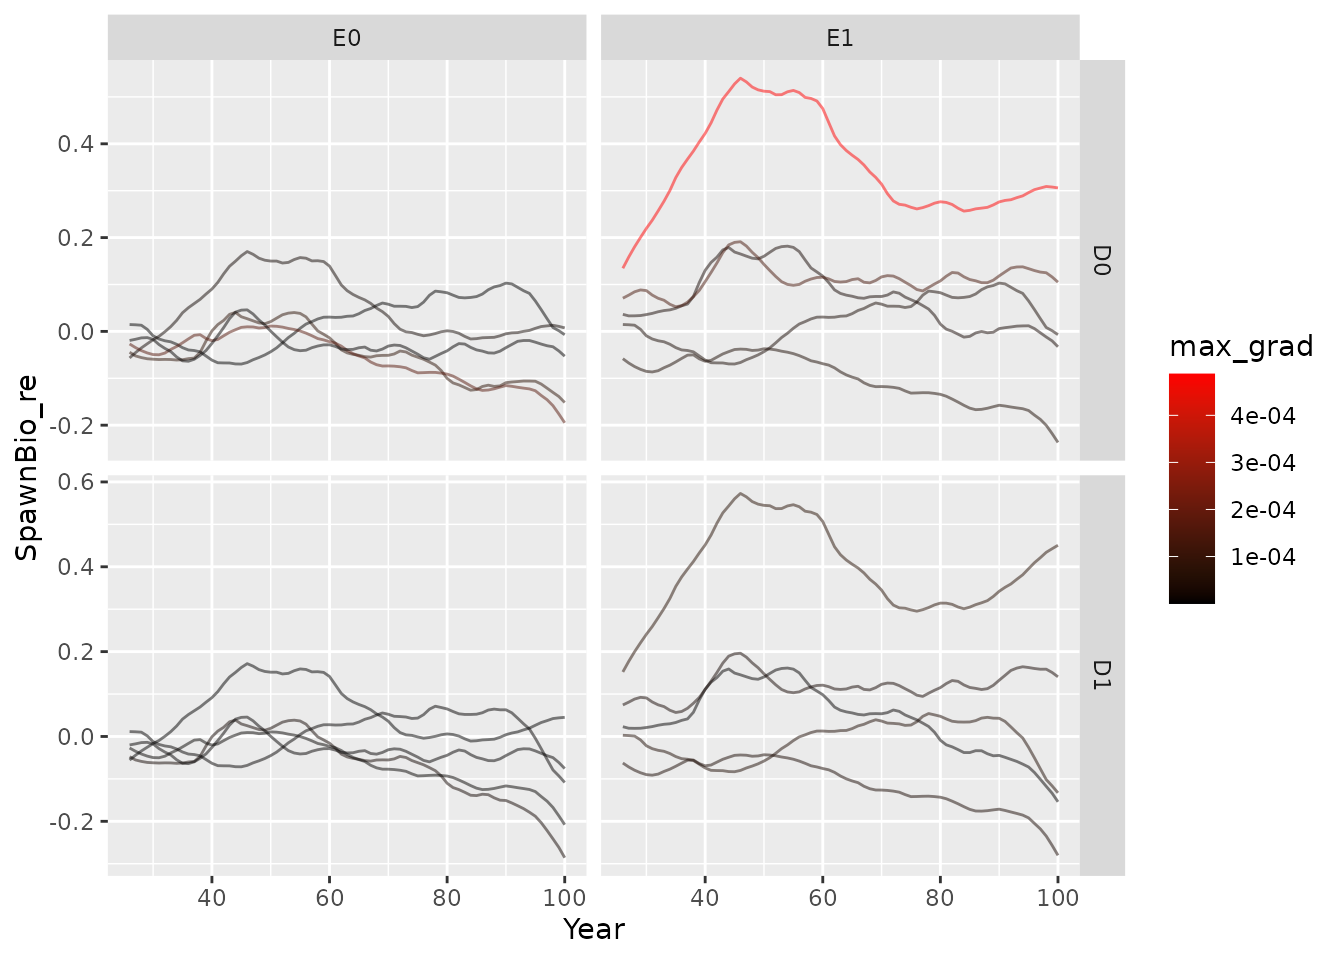
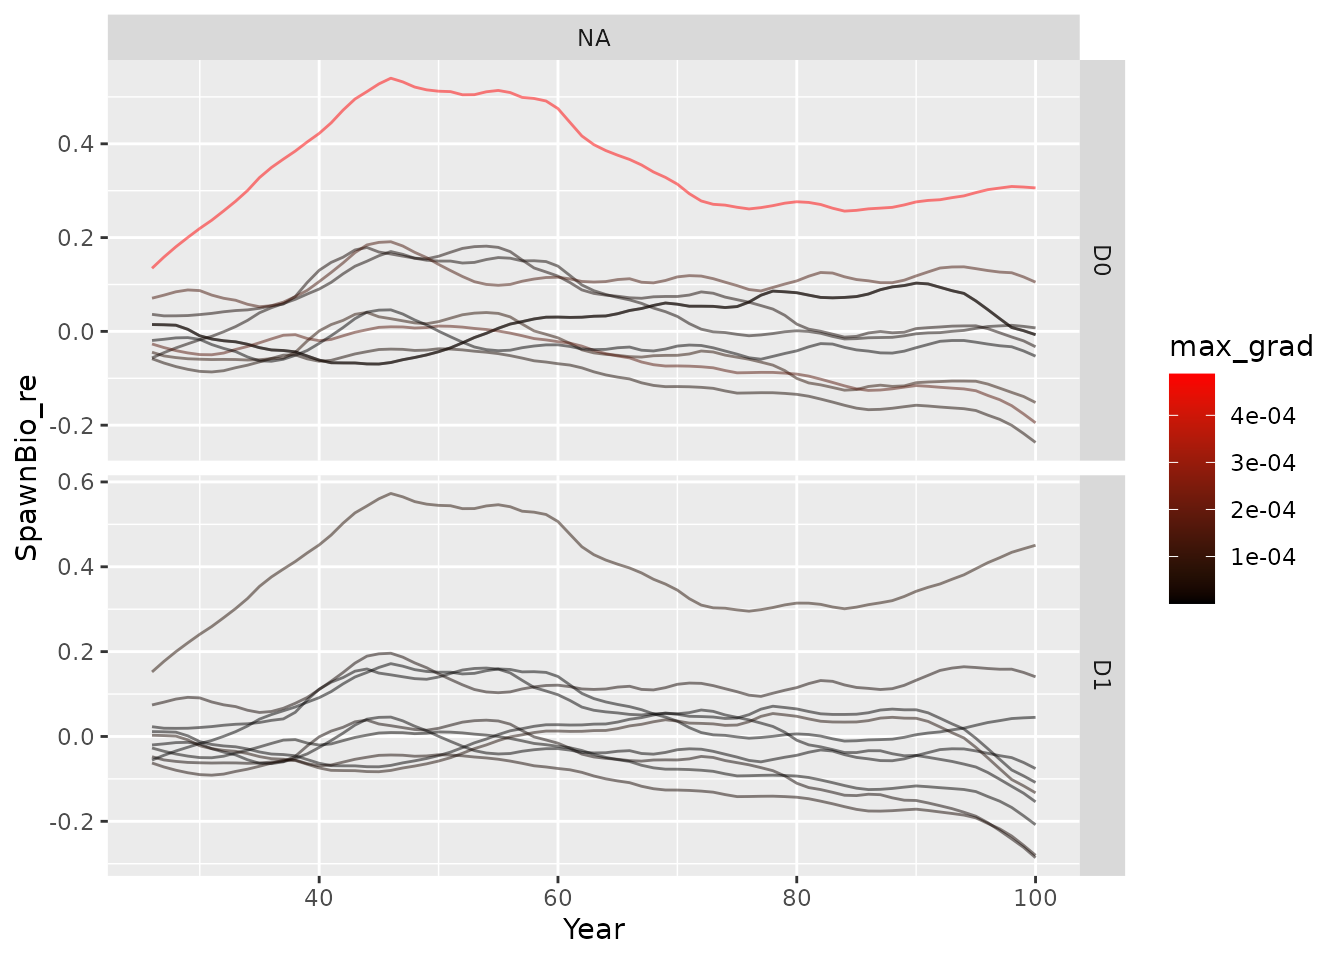
Built site for ss3sim: 1.20.0@24ee728

diff --git a/articles/introduction.html b/articles/introduction.html
@@ -705,20 +705,26 @@ version of the output.</p>
 <p>The gradient information is in the scalar file. Merging the scalar
 and the time series can help add details to figures.</p>
 <div class="sourceCode" id="cb22"><pre class="downlit sourceCode r">
-<code class="sourceCode R"><span><span class="va">ts_dat</span> <span class="op">&lt;-</span> <span class="fu"><a href="https://rdrr.io/r/base/merge.html" class="external-link">merge</a></span><span class="op">(</span></span>
-<span>  x <span class="op">=</span> <span class="va">ts_dat</span>,</span>
-<span>  y <span class="op">=</span> <span class="va">scalar_dat</span><span class="op">[</span>, <span class="fu"><a href="https://rdrr.io/r/base/c.html" class="external-link">c</a></span><span class="op">(</span><span class="st">"scenario"</span>, <span class="st">"iteration"</span>, <span class="st">"max_grad"</span><span class="op">)</span><span class="op">]</span></span>
+<code class="sourceCode R"><span><span class="va">scalar_dat</span><span class="op">[</span>, <span class="st">"D"</span><span class="op">]</span> <span class="op">&lt;-</span> <span class="fu"><a href="https://rdrr.io/r/base/grep.html" class="external-link">gsub</a></span><span class="op">(</span></span>
+<span>  pattern <span class="op">=</span> <span class="st">"D([0-9]+)-.+"</span>,</span>
+<span>  replacement <span class="op">=</span> <span class="st">"D\\1"</span>,</span>
+<span>  <span class="va">scalar_dat</span><span class="op">[</span>, <span class="st">"scenario"</span><span class="op">]</span></span>
+<span><span class="op">)</span></span>
+<span><span class="va">scalar_dat</span><span class="op">[</span>, <span class="st">"E"</span><span class="op">]</span> <span class="op">&lt;-</span> <span class="fu"><a href="https://rdrr.io/r/base/ifelse.html" class="external-link">ifelse</a></span><span class="op">(</span></span>
+<span>  test <span class="op">=</span> <span class="va">scalar_dat</span><span class="op">$</span><span class="va">NatM_uniform_Fem_GP_1_em</span> <span class="op">==</span> <span class="fl">0.2</span>,</span>
+<span>  <span class="st">"fix M"</span>,</span>
+<span>  <span class="st">"estimate M"</span></span>
+<span><span class="op">)</span></span>
+<span><span class="va">ts_dat</span> <span class="op">&lt;-</span> <span class="fu"><a href="https://rdrr.io/r/base/merge.html" class="external-link">merge</a></span><span class="op">(</span></span>
+<span>  x <span class="op">=</span> <span class="fu">dplyr</span><span class="fu">::</span><span class="fu"><a href="https://dplyr.tidyverse.org/reference/select.html" class="external-link">select</a></span><span class="op">(</span><span class="va">ts_dat</span>, <span class="op">-</span><span class="va">E</span><span class="op">)</span>,</span>
+<span>  y <span class="op">=</span> <span class="va">scalar_dat</span><span class="op">[</span>, <span class="fu"><a href="https://rdrr.io/r/base/c.html" class="external-link">c</a></span><span class="op">(</span><span class="st">"scenario"</span>, <span class="st">"iteration"</span>, <span class="st">"max_grad"</span>, <span class="st">"D"</span>, <span class="st">"E"</span><span class="op">)</span><span class="op">]</span></span>
 <span><span class="op">)</span></span></code></pre></div>
 </div>
 <div class="section level4">
 <h4 id="separate-the-deterministic-from-the-stochastic-runs">Separate the deterministic from the stochastic runs<a class="anchor" aria-label="anchor" href="#separate-the-deterministic-from-the-stochastic-runs"></a>
 </h4>
 <div class="sourceCode" id="cb23"><pre class="downlit sourceCode r">
-<code class="sourceCode R"><span><span class="va">scalar_dat_det</span> <span class="op">&lt;-</span> <span class="va">scalar_dat</span><span class="op">[</span><span class="va">scalar_dat</span><span class="op">$</span><span class="va">E</span> <span class="op"><a href="https://rdrr.io/r/base/match.html" class="external-link">%in%</a></span> <span class="fu"><a href="https://rdrr.io/r/base/c.html" class="external-link">c</a></span><span class="op">(</span><span class="st">"E100"</span>, <span class="st">"E101"</span><span class="op">)</span>, <span class="op">]</span></span>
-<span><span class="va">scalar_dat_sto</span> <span class="op">&lt;-</span> <span class="va">scalar_dat</span><span class="op">[</span><span class="va">scalar_dat</span><span class="op">$</span><span class="va">E</span> <span class="op"><a href="https://rdrr.io/r/base/match.html" class="external-link">%in%</a></span> <span class="fu"><a href="https://rdrr.io/r/base/c.html" class="external-link">c</a></span><span class="op">(</span><span class="st">"E0"</span>, <span class="st">"E1"</span><span class="op">)</span>, <span class="op">]</span></span>
-<span><span class="va">ts_dat_det</span> <span class="op">&lt;-</span> <span class="va">ts_dat</span><span class="op">[</span><span class="va">ts_dat</span><span class="op">$</span><span class="va">E</span> <span class="op"><a href="https://rdrr.io/r/base/match.html" class="external-link">%in%</a></span> <span class="fu"><a href="https://rdrr.io/r/base/c.html" class="external-link">c</a></span><span class="op">(</span><span class="st">"E100"</span>, <span class="st">"E101"</span><span class="op">)</span>, <span class="op">]</span></span>
-<span><span class="va">ts_dat_sto</span> <span class="op">&lt;-</span> <span class="va">ts_dat</span><span class="op">[</span><span class="va">ts_dat</span><span class="op">$</span><span class="va">E</span> <span class="op"><a href="https://rdrr.io/r/base/match.html" class="external-link">%in%</a></span> <span class="fu"><a href="https://rdrr.io/r/base/c.html" class="external-link">c</a></span><span class="op">(</span><span class="st">"E0"</span>, <span class="st">"E1"</span><span class="op">)</span>, <span class="op">]</span></span>
-<span></span>
+<code class="sourceCode R"><span><span class="va">ts_dat_sto</span> <span class="op">&lt;-</span> <span class="va">ts_dat</span><span class="op">[</span><span class="fu"><a href="https://rdrr.io/r/base/grep.html" class="external-link">grepl</a></span><span class="op">(</span><span class="st">"E[0-1]-"</span>, <span class="va">ts_dat</span><span class="op">[</span>, <span class="st">"scenario"</span><span class="op">]</span><span class="op">)</span>, <span class="op">]</span></span>
 <span><span class="va">scalar_dat_long</span> <span class="op">&lt;-</span> <span class="va">scalar_dat</span></span>
 <span><span class="fu"><a href="https://rdrr.io/r/base/colnames.html" class="external-link">colnames</a></span><span class="op">(</span><span class="va">scalar_dat_long</span><span class="op">)</span> <span class="op">&lt;-</span> <span class="fu"><a href="https://rdrr.io/r/base/grep.html" class="external-link">gsub</a></span><span class="op">(</span></span>
 <span>  pattern <span class="op">=</span> <span class="st">"(.+)_re"</span>,</span>
@@ -742,10 +748,10 @@ and the time series can help add details to figures.</p>
 <code class="sourceCode R"><span><span class="va">p</span> <span class="op">&lt;-</span> <span class="fu"><a href="../reference/plot_boxplot.html">plot_boxplot</a></span><span class="op">(</span></span>
 <span>  <span class="va">scalar_dat_long</span><span class="op">[</span></span>
 <span>    <span class="va">scalar_dat_long</span><span class="op">$</span><span class="va">parameter</span> <span class="op"><a href="https://rdrr.io/r/base/match.html" class="external-link">%in%</a></span> <span class="fu"><a href="https://rdrr.io/r/base/c.html" class="external-link">c</a></span><span class="op">(</span><span class="st">"depletion"</span>, <span class="st">"SSB_MSY"</span><span class="op">)</span> <span class="op">&amp;</span></span>
-<span>      <span class="va">scalar_dat_long</span><span class="op">$</span><span class="va">E</span> <span class="op"><a href="https://rdrr.io/r/base/match.html" class="external-link">%in%</a></span> <span class="fu"><a href="https://rdrr.io/r/base/c.html" class="external-link">c</a></span><span class="op">(</span><span class="st">"E100"</span>, <span class="st">"E101"</span><span class="op">)</span>,</span>
+<span>    <span class="fu"><a href="https://rdrr.io/r/base/grep.html" class="external-link">grepl</a></span><span class="op">(</span><span class="st">"E10[0-1]"</span>, <span class="va">scalar_dat_long</span><span class="op">[</span>, <span class="st">"scenario"</span><span class="op">]</span><span class="op">)</span>,</span>
 <span>  <span class="op">]</span>,</span>
-<span>  x <span class="op">=</span> <span class="st">"D"</span>, y <span class="op">=</span> <span class="st">"RE"</span>, re <span class="op">=</span> <span class="cn">FALSE</span>,</span>
-<span>  vert <span class="op">=</span> <span class="st">"E"</span>, horiz <span class="op">=</span> <span class="st">"parameter"</span>, print <span class="op">=</span> <span class="cn">FALSE</span></span>
+<span>  x <span class="op">=</span> <span class="st">"E"</span>, y <span class="op">=</span> <span class="st">"RE"</span>, re <span class="op">=</span> <span class="cn">FALSE</span>,</span>
+<span>  horiz <span class="op">=</span> <span class="st">"parameter"</span>, print <span class="op">=</span> <span class="cn">FALSE</span></span>
 <span><span class="op">)</span></span>
 <span><span class="fu"><a href="https://rdrr.io/r/base/print.html" class="external-link">print</a></span><span class="op">(</span><span class="va">p</span><span class="op">)</span></span></code></pre></div>
 <div class="figure">
@@ -775,21 +781,10 @@ Time series of relative error in spawning stock biomass.
 </p>
 </div>
 <div class="sourceCode" id="cb27"><pre class="downlit sourceCode r">
-<code class="sourceCode R"><span><span class="va">p</span> <span class="op">&lt;-</span> <span class="fu"><a href="../reference/plot_lines.html">plot_lines</a></span><span class="op">(</span><span class="va">ts_dat_sto</span>,</span>
-<span>  y <span class="op">=</span> <span class="st">"SpawnBio_re"</span>,</span>
-<span>  vert <span class="op">=</span> <span class="st">"E"</span>, horiz <span class="op">=</span> <span class="st">"D"</span>, print <span class="op">=</span> <span class="cn">FALSE</span>, col <span class="op">=</span> <span class="st">"max_grad"</span></span>
-<span><span class="op">)</span></span>
-<span><span class="fu"><a href="https://rdrr.io/r/base/print.html" class="external-link">print</a></span><span class="op">(</span><span class="va">p</span><span class="op">)</span></span></code></pre></div>
-<div class="figure">
-<img src="introduction_files/figure-html/ssb-ts-plots-1.png" alt="Spawning stock biomass time series." width="672"><p class="caption">
-Spawning stock biomass time series.
-</p>
-</div>
-<div class="sourceCode" id="cb28"><pre class="downlit sourceCode r">
 <code class="sourceCode R"><span><span class="va">p</span> <span class="op">&lt;-</span> <span class="fu"><a href="../reference/plot_boxplot.html">plot_boxplot</a></span><span class="op">(</span></span>
 <span>  <span class="va">scalar_dat_long</span><span class="op">[</span></span>
 <span>    <span class="va">scalar_dat_long</span><span class="op">$</span><span class="va">parameter</span> <span class="op"><a href="https://rdrr.io/r/base/match.html" class="external-link">%in%</a></span> <span class="fu"><a href="https://rdrr.io/r/base/c.html" class="external-link">c</a></span><span class="op">(</span><span class="st">"depletion"</span>, <span class="st">"SSB_MSY"</span><span class="op">)</span> <span class="op">&amp;</span></span>
-<span>      <span class="va">scalar_dat_long</span><span class="op">$</span><span class="va">E</span> <span class="op"><a href="https://rdrr.io/r/base/match.html" class="external-link">%in%</a></span> <span class="fu"><a href="https://rdrr.io/r/base/c.html" class="external-link">c</a></span><span class="op">(</span><span class="st">"E0"</span>, <span class="st">"E1"</span><span class="op">)</span>,</span>
+<span>    <span class="fu"><a href="https://rdrr.io/r/base/grep.html" class="external-link">grepl</a></span><span class="op">(</span><span class="st">"E[0-1]-"</span>, <span class="va">scalar_dat_long</span><span class="op">$</span><span class="va">scenario</span><span class="op">)</span>,</span>
 <span>  <span class="op">]</span>,</span>
 <span>  x <span class="op">=</span> <span class="st">"D"</span>, y <span class="op">=</span> <span class="st">"RE"</span>, re <span class="op">=</span> <span class="cn">FALSE</span>,</span>
 <span>  vert <span class="op">=</span> <span class="st">"E"</span>, horiz <span class="op">=</span> <span class="st">"parameter"</span>, print <span class="op">=</span> <span class="cn">FALSE</span></span>
@@ -1219,7 +1214,7 @@ out how many cores are on the computer and register a portion of those
 for parallel processing. Second, us an apply function to get the results
 from each scenario. Third, bring the results together and close the
 cluster.</p>
-<div class="sourceCode" id="cb29"><pre class="downlit sourceCode r">
+<div class="sourceCode" id="cb28"><pre class="downlit sourceCode r">
 <code class="sourceCode R"><span><span class="kw"><a href="https://rdrr.io/r/base/library.html" class="external-link">library</a></span><span class="op">(</span><span class="va">parallel</span><span class="op">)</span></span>
 <span><span class="va">ncls</span> <span class="op">&lt;-</span> <span class="fu"><a href="https://rdrr.io/r/base/numeric.html" class="external-link">as.numeric</a></span><span class="op">(</span><span class="fu"><a href="https://rdrr.io/r/base/Sys.getenv.html" class="external-link">Sys.getenv</a></span><span class="op">(</span><span class="st">"NUMBER_OF_PROCESSORS"</span><span class="op">)</span><span class="op">)</span></span>
 <span><span class="va">cl</span> <span class="op">&lt;-</span> <span class="fu"><a href="https://rdrr.io/r/parallel/makeCluster.html" class="external-link">makeCluster</a></span><span class="op">(</span><span class="fu"><a href="https://rdrr.io/r/base/options.html" class="external-link">getOption</a></span><span class="op">(</span><span class="st">"cl.cores"</span>, <span class="fu"><a href="https://rdrr.io/r/base/ifelse.html" class="external-link">ifelse</a></span><span class="op">(</span><span class="va">ncls</span> <span class="op">&lt;</span> <span class="fl">6</span>, <span class="fl">2</span>, <span class="fl">4</span><span class="op">)</span><span class="op">)</span><span class="op">)</span></span>

diff --git a/reference/replace_x.html b/reference/replace_x.html
@@ -141,7 +141,7 @@ If the input object was of zero length, then the <code>replacement</code></p>
 <span class="r-in"><span><span class="kw">if</span> <span class="op">(</span><span class="cn">FALSE</span><span class="op">)</span> <span class="op">{</span></span></span>
 <span class="r-in"><span><span class="fu"><a href="https://rdrr.io/r/base/do.call.html" class="external-link">do.call</a></span><span class="op">(</span><span class="va">rbind</span>, <span class="fu"><a href="https://rdrr.io/r/base/lapply.html" class="external-link">lapply</a></span><span class="op">(</span><span class="va">employees</span>, <span class="va">rbind</span><span class="op">)</span><span class="op">)</span> <span class="op"><a href="pipe.html">%&gt;%</a></span></span></span>
 <span class="r-in"><span>  <span class="fu"><a href="https://rdrr.io/r/base/data.frame.html" class="external-link">data.frame</a></span><span class="op">(</span><span class="op">)</span> <span class="op"><a href="pipe.html">%&gt;%</a></span></span></span>
-<span class="r-in"><span>  <span class="fu">purrr</span><span class="fu">::</span><span class="fu"><a href="https://purrr.tidyverse.org/reference/modify.html" class="external-link">modify_depth</a></span><span class="op">(</span><span class="fl">2</span>, <span class="va">replace_x</span><span class="op">)</span></span></span>
+<span class="r-in"><span>  <span class="fu">purrr</span><span class="fu">::</span><span class="fu"><a href="https://purrr.tidyverse.org/reference/map_depth.html" class="external-link">modify_depth</a></span><span class="op">(</span><span class="fl">2</span>, <span class="va">replace_x</span><span class="op">)</span></span></span>
 <span class="r-in"><span><span class="op">}</span></span></span>
 <span class="r-in"><span></span></span>
 </code></pre></div>
